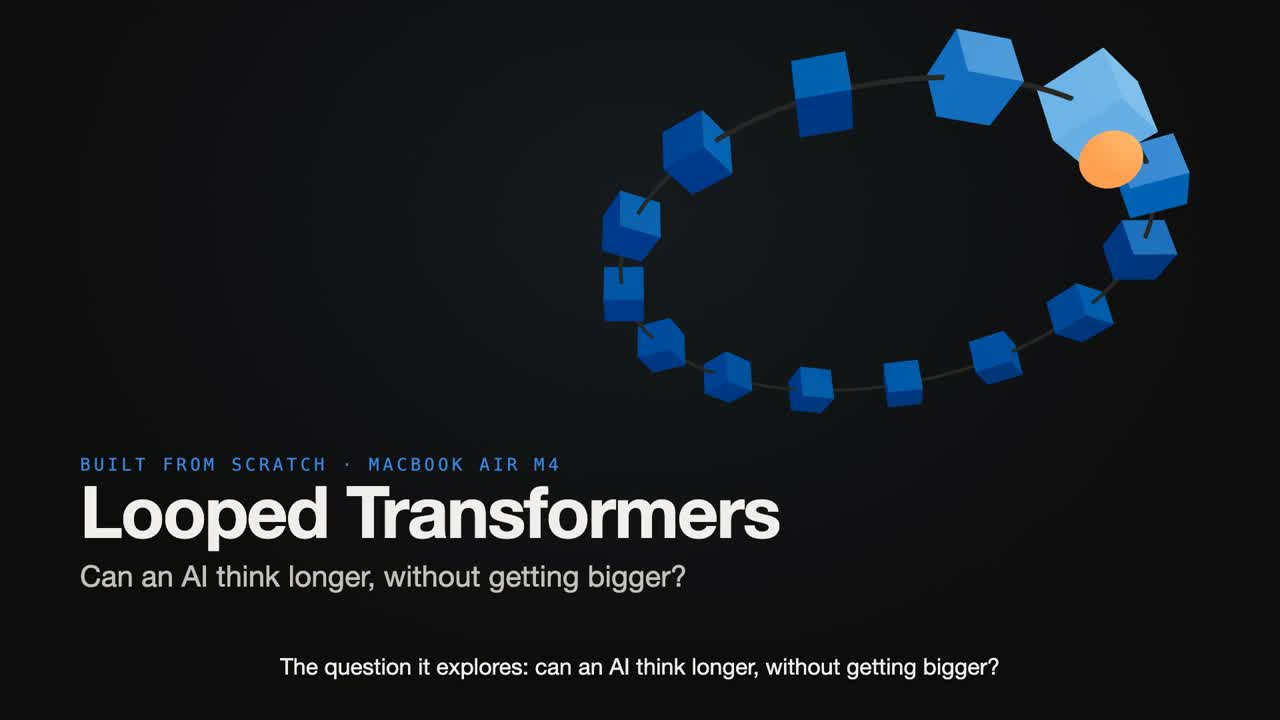
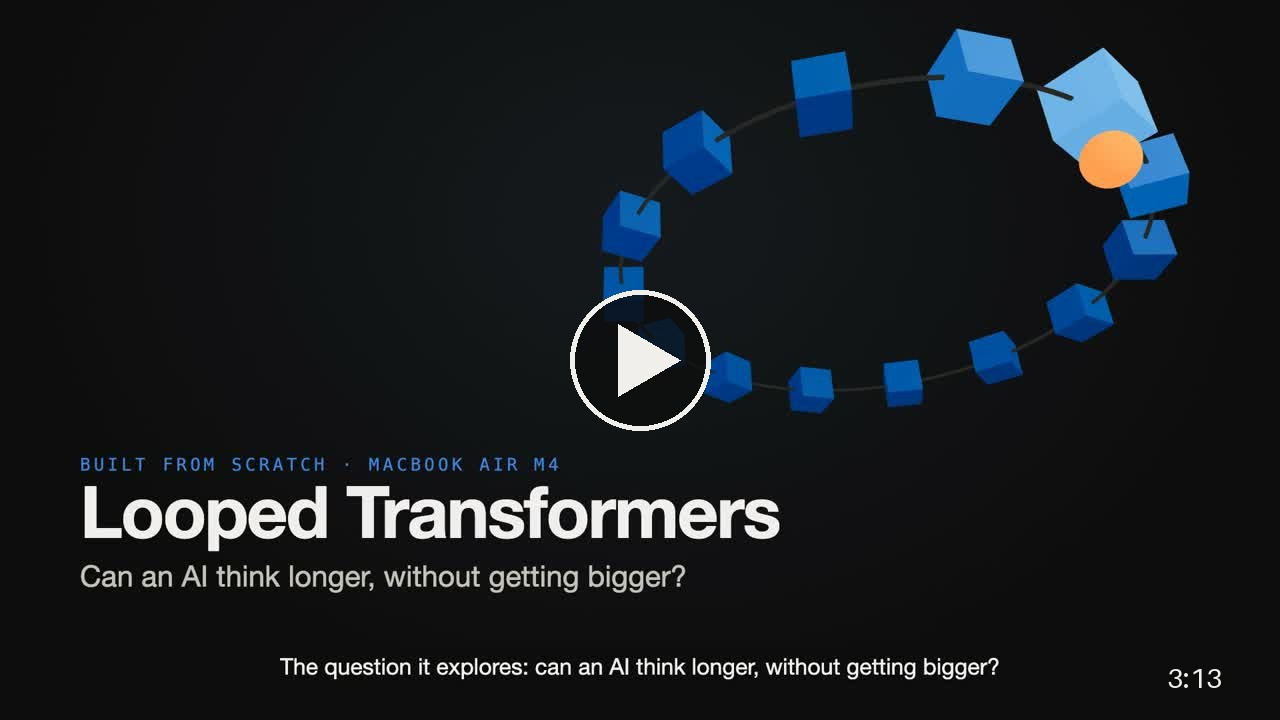
README: video thumbnail with play button; drop unsupported video tag

Changed region(s): [[0.4375, 0.3972, 0.5625, 0.5806], [0.9062, 0.9167, 0.9688, 0.9472], [0.4688, 0.5806, 0.5312, 0.6111]]

diff --git a/README.md b/README.md
@@ -2,9 +2,8 @@
 
 **▶ 3-minute narrated explainer: the idea, the puzzle, and every benchmark** (turn sound on)
 
-<video src="https://raw.githubusercontent.com/Adityakk9031/looped-transformer-toy/main/media/looped-transformer-demo.mp4" poster="media/poster.jpg" controls width="100%"></video>
-
-[![Watch the explainer](media/poster.jpg)](media/looped-transformer-demo.mp4)
+<!-- VIDEO: drag media/looped-transformer-demo.mp4 into GitHub's web editor here; it becomes an inline player. -->
+[![Watch the 3-minute explainer](media/poster.jpg)](https://raw.githubusercontent.com/Adityakk9031/looped-transformer-toy/main/media/looped-transformer-demo.mp4)
 
 *The video was made with [Remotion](https://www.remotion.dev) + Three.js. Source code: [`video/`](video/).*
 
